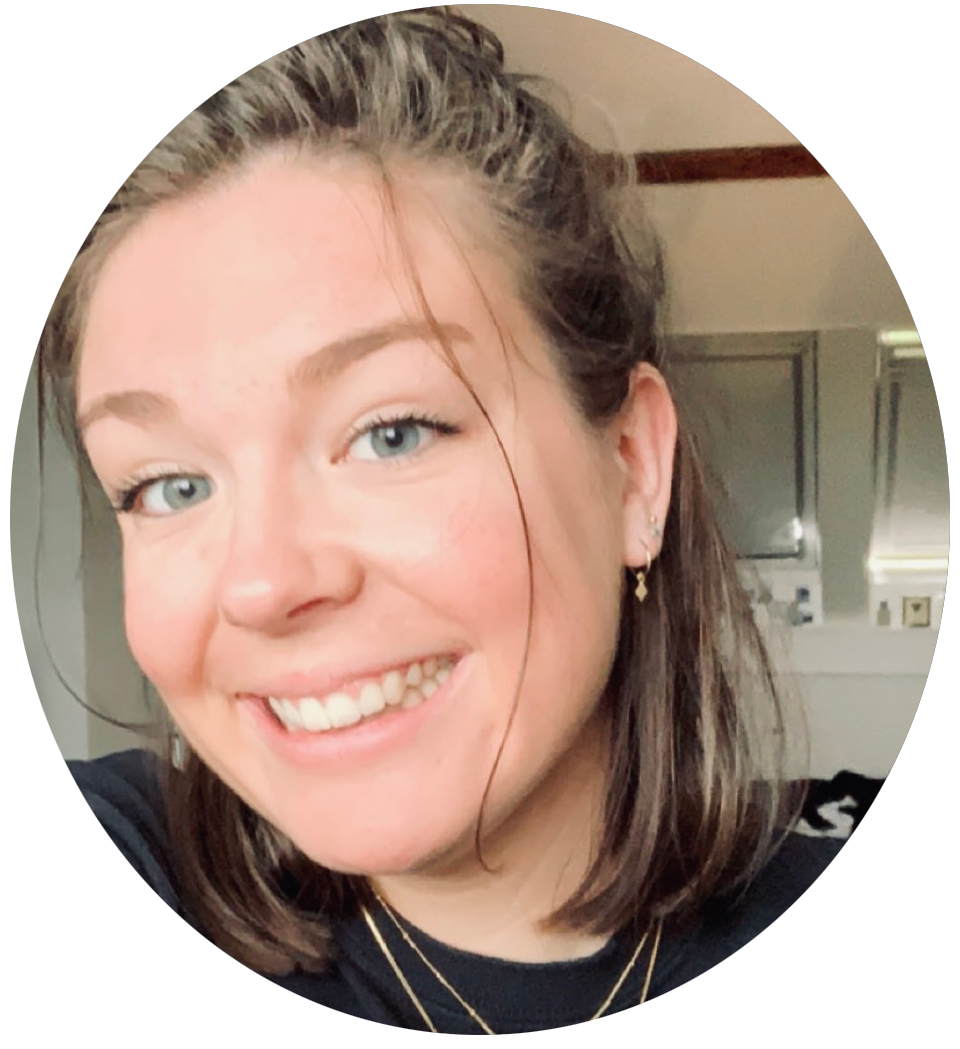
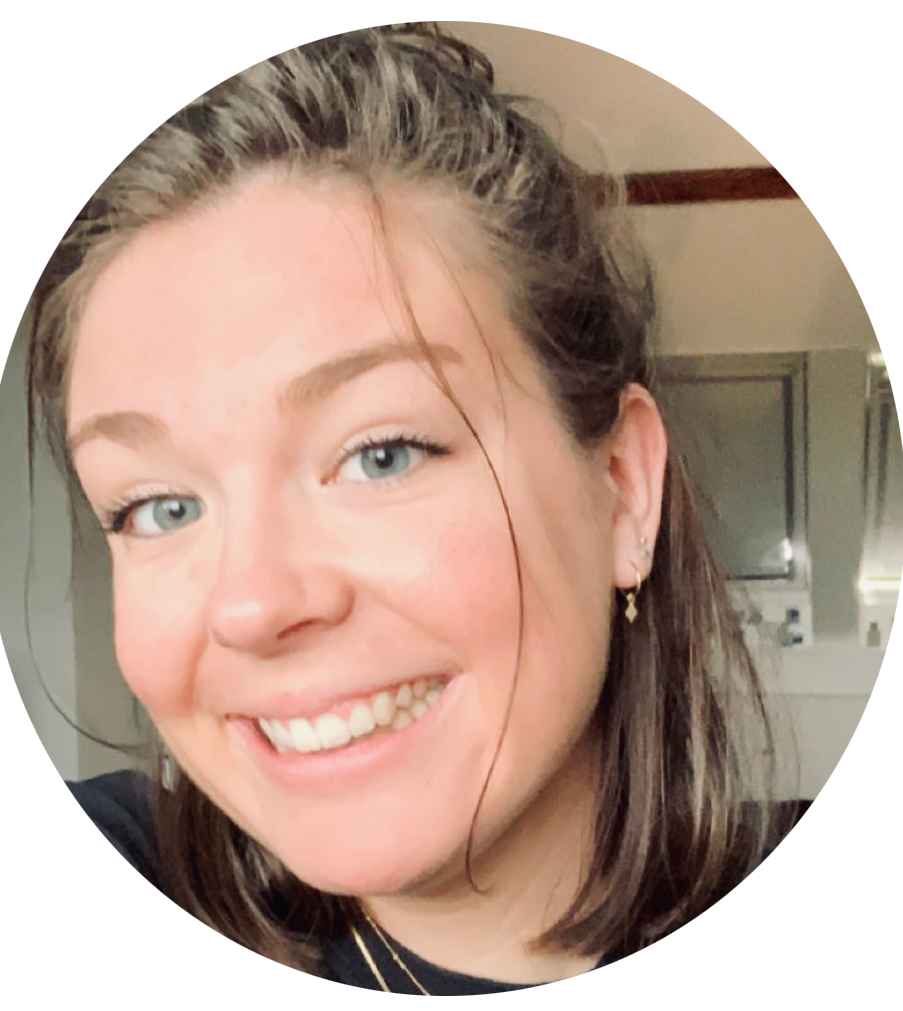
added teammate pictures

diff --git a/index.html b/index.html
@@ -111,18 +111,22 @@
 <div class="team">	
 <a id="the team">
 <h2><strong>The Team</strong></h2>
+	<br>	
 <div class="row">
-    <div class="col-sm">Anouk van Den Hout</div>
-    <div class="col-sm">Felipe Sperling</div>
-	<div class="col-sm">Tess Grijpma</div>
+    <div class="col-sm"><img src="images/anouk.png" width="102" alt="Anouk van den Hout picture">
+		<br>Anouk van Den Hout<br>Co-head of design</div>
+    <div class="col-sm">
+		<img src="images/felipe.png" width="107" alt="Felipe Sperling picture">
+		<br>Felipe Sperling<br>Co-head of management</div>
+	<div class="col-sm"><img src="images/tess.png" width="105" alt="Tess Grijpma picture">
+		<br>Tess Grijpma<br>Co-head of design</div>
+    <div class="col-sm"><img src="images/floris.png" width="105" alt="Floris Brugman picture">
+		<br>Floris Brugman<br>Co-head of management</div>
+    <div class="col-sm"><img src="images/joelle.png" width="100" alt="Joelle Donkers pciture">
+		<br>Joelle Donkers<br>Head of marketing</div>
   </div>	
-<br>
-<div class="row">
-    <div class="col-7">Floris Brugman</div>
-    <div class="col-sm">Joelle Donkers</div>
-  </div>
-	
-</a>		
+</a>
+</div>	
 <div class="footer">	
 </div>	
 		<script src="js/jquery-3.5.1.min.js"></script>
